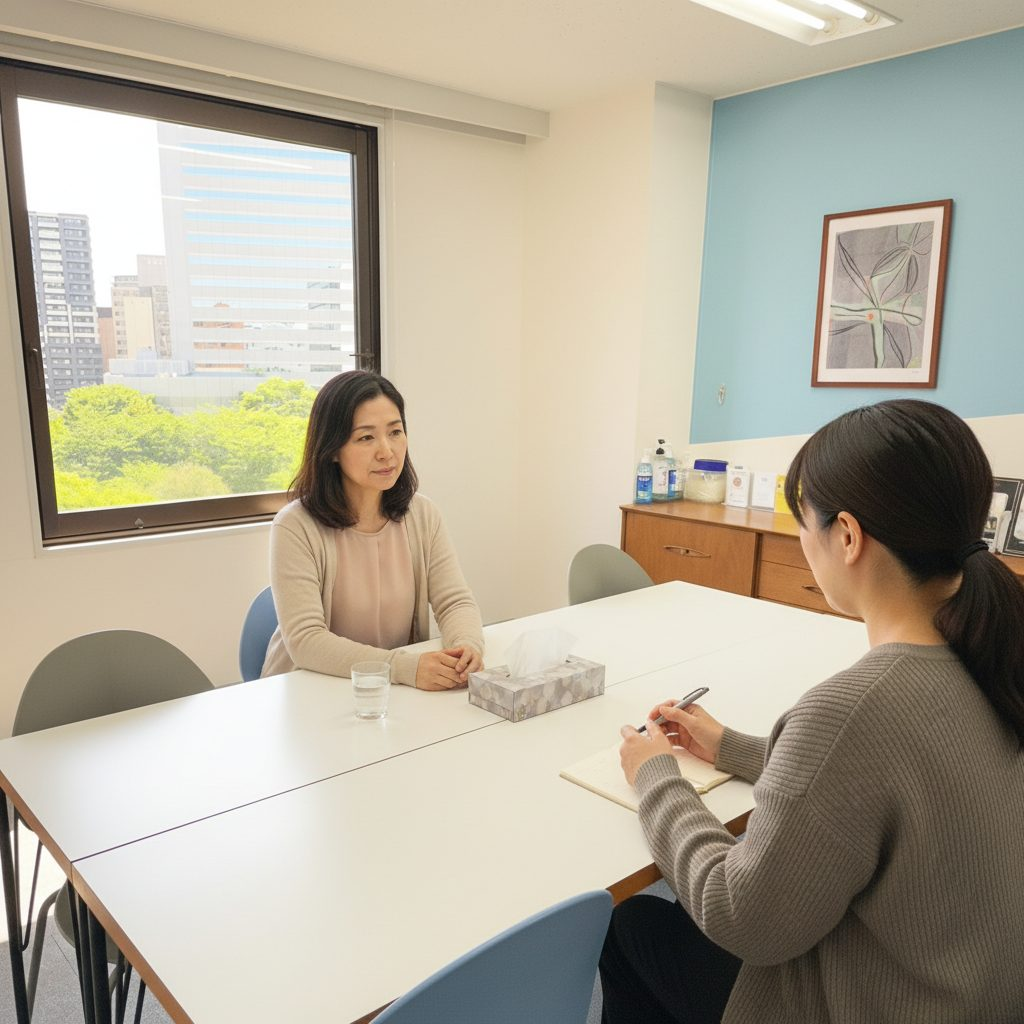
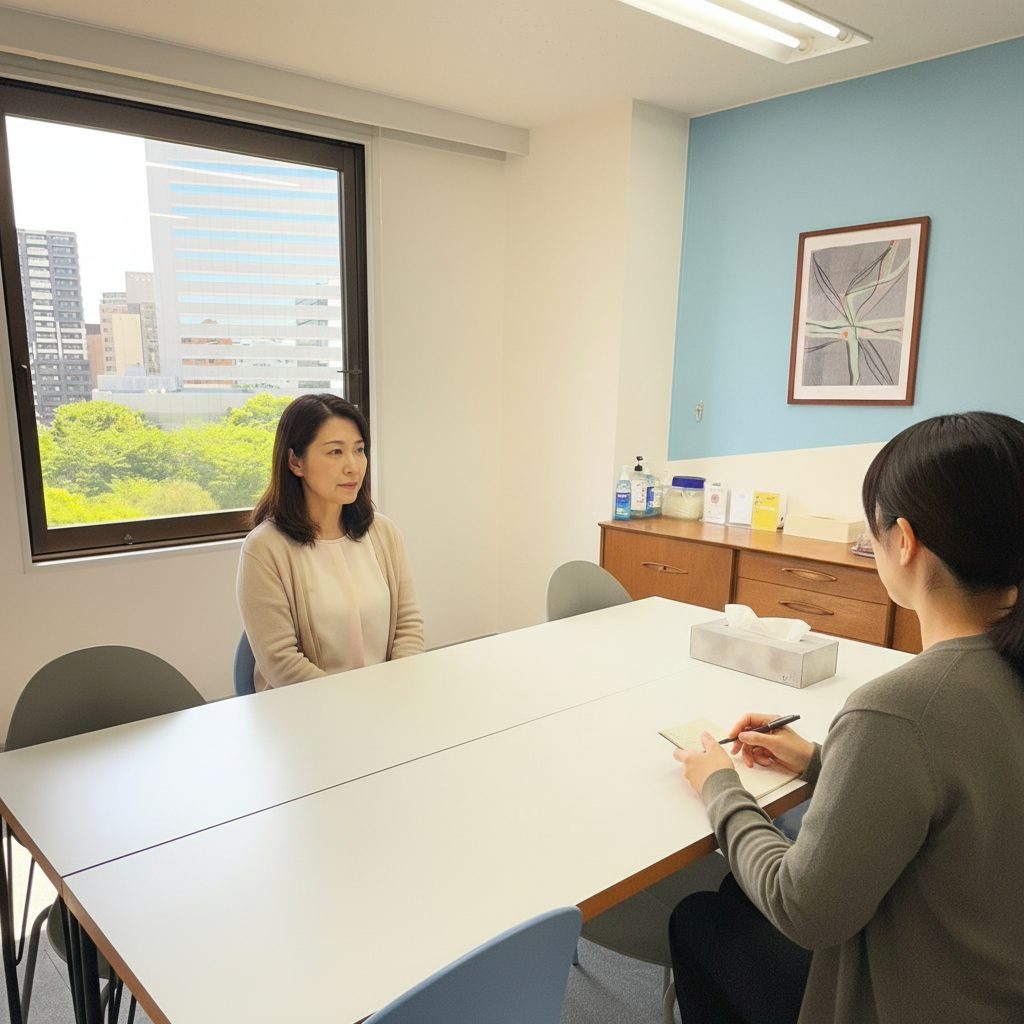
仙台オアシス v5.26: 家山様5/22返信反映（s06コップ除去・s07雑誌切貼り・CTAロゴ追加）

diff --git a/sendai-oasis-storyboard.html b/sendai-oasis-storyboard.html
@@ -123,7 +123,7 @@
 <div class="wrap">
 
 <header class="hero">
-  <div class="eyebrow">RUNBIRD AI VIDEO — STORYBOARD v5.24（家山様5/21追加返信：冷蔵庫を消す＋カウンセラーを結んだ髪・端っこに戻す）</div>
+  <div class="eyebrow">RUNBIRD AI VIDEO — STORYBOARD v5.26（家山様5/22返信反映：s06コップ除去／s07雑誌切貼り版／ロゴ反映）</div>
   <h1>仙台オアシスカウンセリングルーム</h1>
   <div class="sub">代表：家山 めぐみ（臨床心理士・公認心理師） ／ 業種：女性専用 心理カウンセリング ／ 動画尺：50秒（YouTube広告）</div>
   <div class="badges">
@@ -242,7 +242,7 @@
     <div class="body">
       <div class="sec">SCENE 07 ／ 37–41s ／ USP② コラージュ・絵画療法</div>
       <div class="telop">言葉にならない思いを、形に</div>
-      <div class="tags"><span>コラージュ作品</span><span>絵画療法</span><span>箱庭は実施なし</span></div>
+      <div class="tags"><span>雑誌写真を切って貼るコラージュ</span><span>絵画療法</span><span>5/22反映済</span></div>
       <div class="narr">言葉になかなかできない時も、コラージュ・絵画療法（芸術療法）も行っております。</div>
     </div>
   </div>
@@ -270,9 +270,9 @@
   <div class="scene">
     <img src="sendai-oasis-images/s09_cta_oasis.jpg" alt="s10">
     <div class="body">
-      <div class="sec">SCENE 10 ／ 48–50s ／ CTA（HP誘導メイン＋公式LINE併記）</div>
+      <div class="sec">SCENE 10 ／ 48–50s ／ CTA（HP誘導メイン＋公式LINE＋ロゴ）</div>
       <div class="telop">まずはHPへ。公式LINEもあります。<br>HP：sendaioasiscr.com/pages/9623696/page_202603022328</div>
-      <div class="tags"><span>HPファースト</span><span>公式LINEも併記</span><span>HP URL 反映済</span></div>
+      <div class="tags"><span>HPファースト</span><span>公式LINE QR</span><span>仙台オアシスロゴ反映済</span></div>
       <div class="narr">まずはHPへ。公式LINEもあります。</div>
     </div>
   </div>
@@ -337,11 +337,15 @@
     <li>⑨ <s>対人援助向けアプローチ</s> → <b>不要</b>（5/20）</li>
     <li>⑩ <s>料金表記</s> → <b>不要</b>（5/20）</li>
   </ul>
-  <div style="margin:18px 0 8px; padding:8px 12px; background:rgba(230,185,122,0.10); border-left:3px solid var(--amber); font-weight:600; color:var(--amber);">❓ 家山様にご確認・ご共有いただきたい点</div>
+  <div style="margin:18px 0 8px; padding:8px 12px; background:rgba(120,180,140,0.10); border-left:3px solid var(--green-soft); font-weight:600; color:var(--green-soft);">✅ 5/22追加確定・反映完了</div>
   <ul>
-    <li>⑧ <b>コラージュ作品サンプル</b> — 5/21修正：未提出とのこと。<b>「ご自身の作品 ＋ AIの手と合体」を弊社にて作成可能</b>です。お作品データ（写真）をご共有いただければ、ハサミで切って貼る／ちぎって貼る作業中のAI画像と合成いたします</li>
-    <li>✅ <s>「KEARNY PLACE」ビル名の使用可否</s> → <b>許可取り不要案で対応</b>：SCENE 05はビル銘板を使わず、<b>実際のお部屋（カウンセリングルーム内観）の写真を背景＋「仙台駅前通」テキストのみ</b>に差し替えました（v5.22）。これで第三者への確認は不要となり、実在感もより伝わります</li>
-    <li><b>新②ラストにロゴ追加</b> — 5/21ご提案：仙台オアシスカウンセリングルームのロゴマークを最終画面に小さく入れる。<b>賛成です。ロゴデータ（PNG/SVG等）をご共有ください</b></li>
+    <li>✅ <s>SCENE 06 コップの水</s> → 撤去（飲み物なし）</li>
+    <li>✅ <s>SCENE 07 コラージュ</s> → AIで雑誌写真を切って貼る画像に差替</li>
+    <li>✅ <s>最終画面のロゴ</s> → 家山様よりロゴご共有いただき、SCENE 10 CTAに反映済</li>
+    <li>✅ <s>ビル名問題</s> → 実写ルームで代替（許可不要）</li>
+  </ul>
+  <div style="margin:18px 0 8px; padding:8px 12px; background:rgba(230,185,122,0.10); border-left:3px solid var(--amber); font-weight:600; color:var(--amber);">❓ 残るご確認は1点のみ</div>
+  <ul>
   </ul>
 </div>
 
